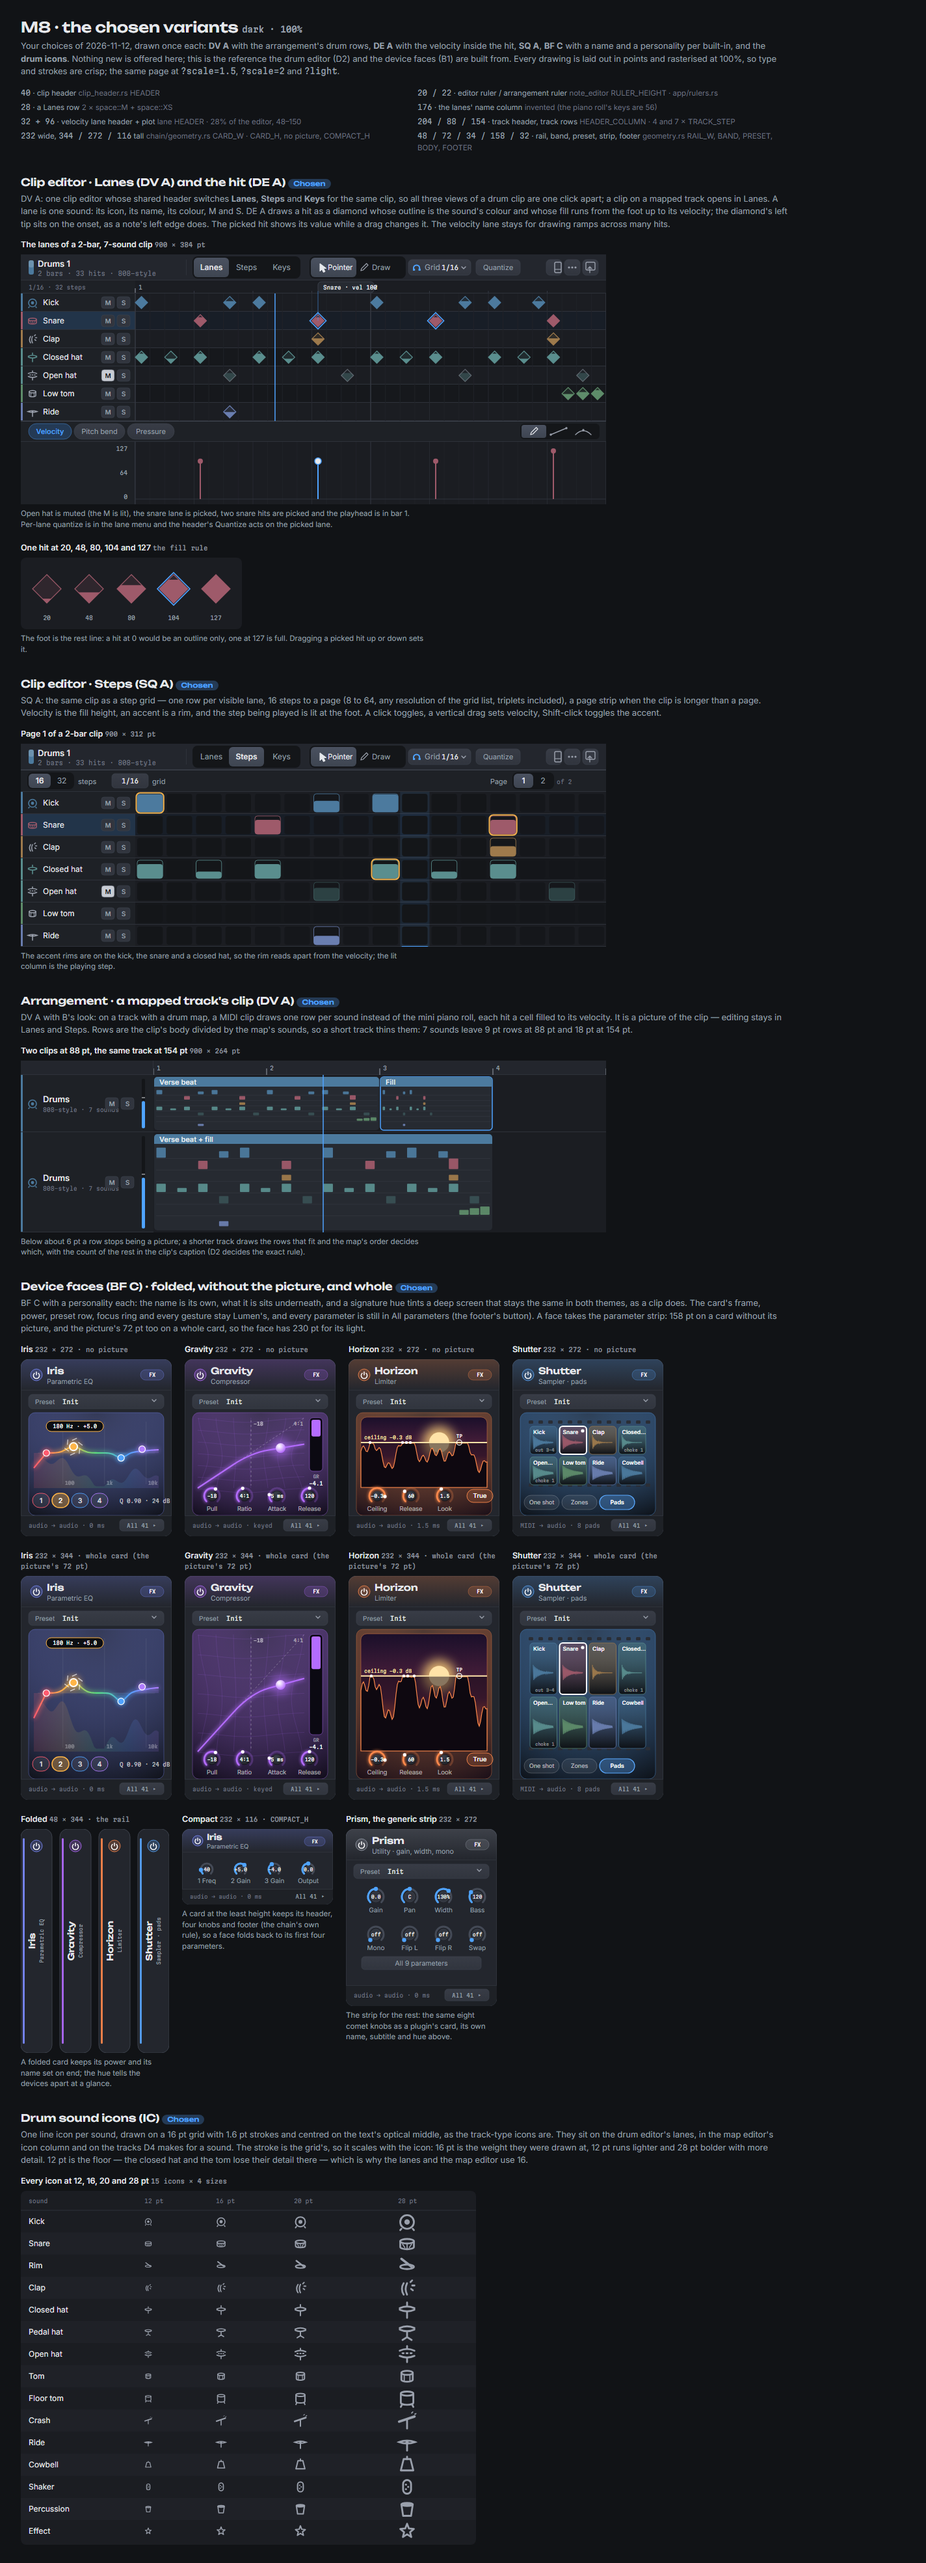
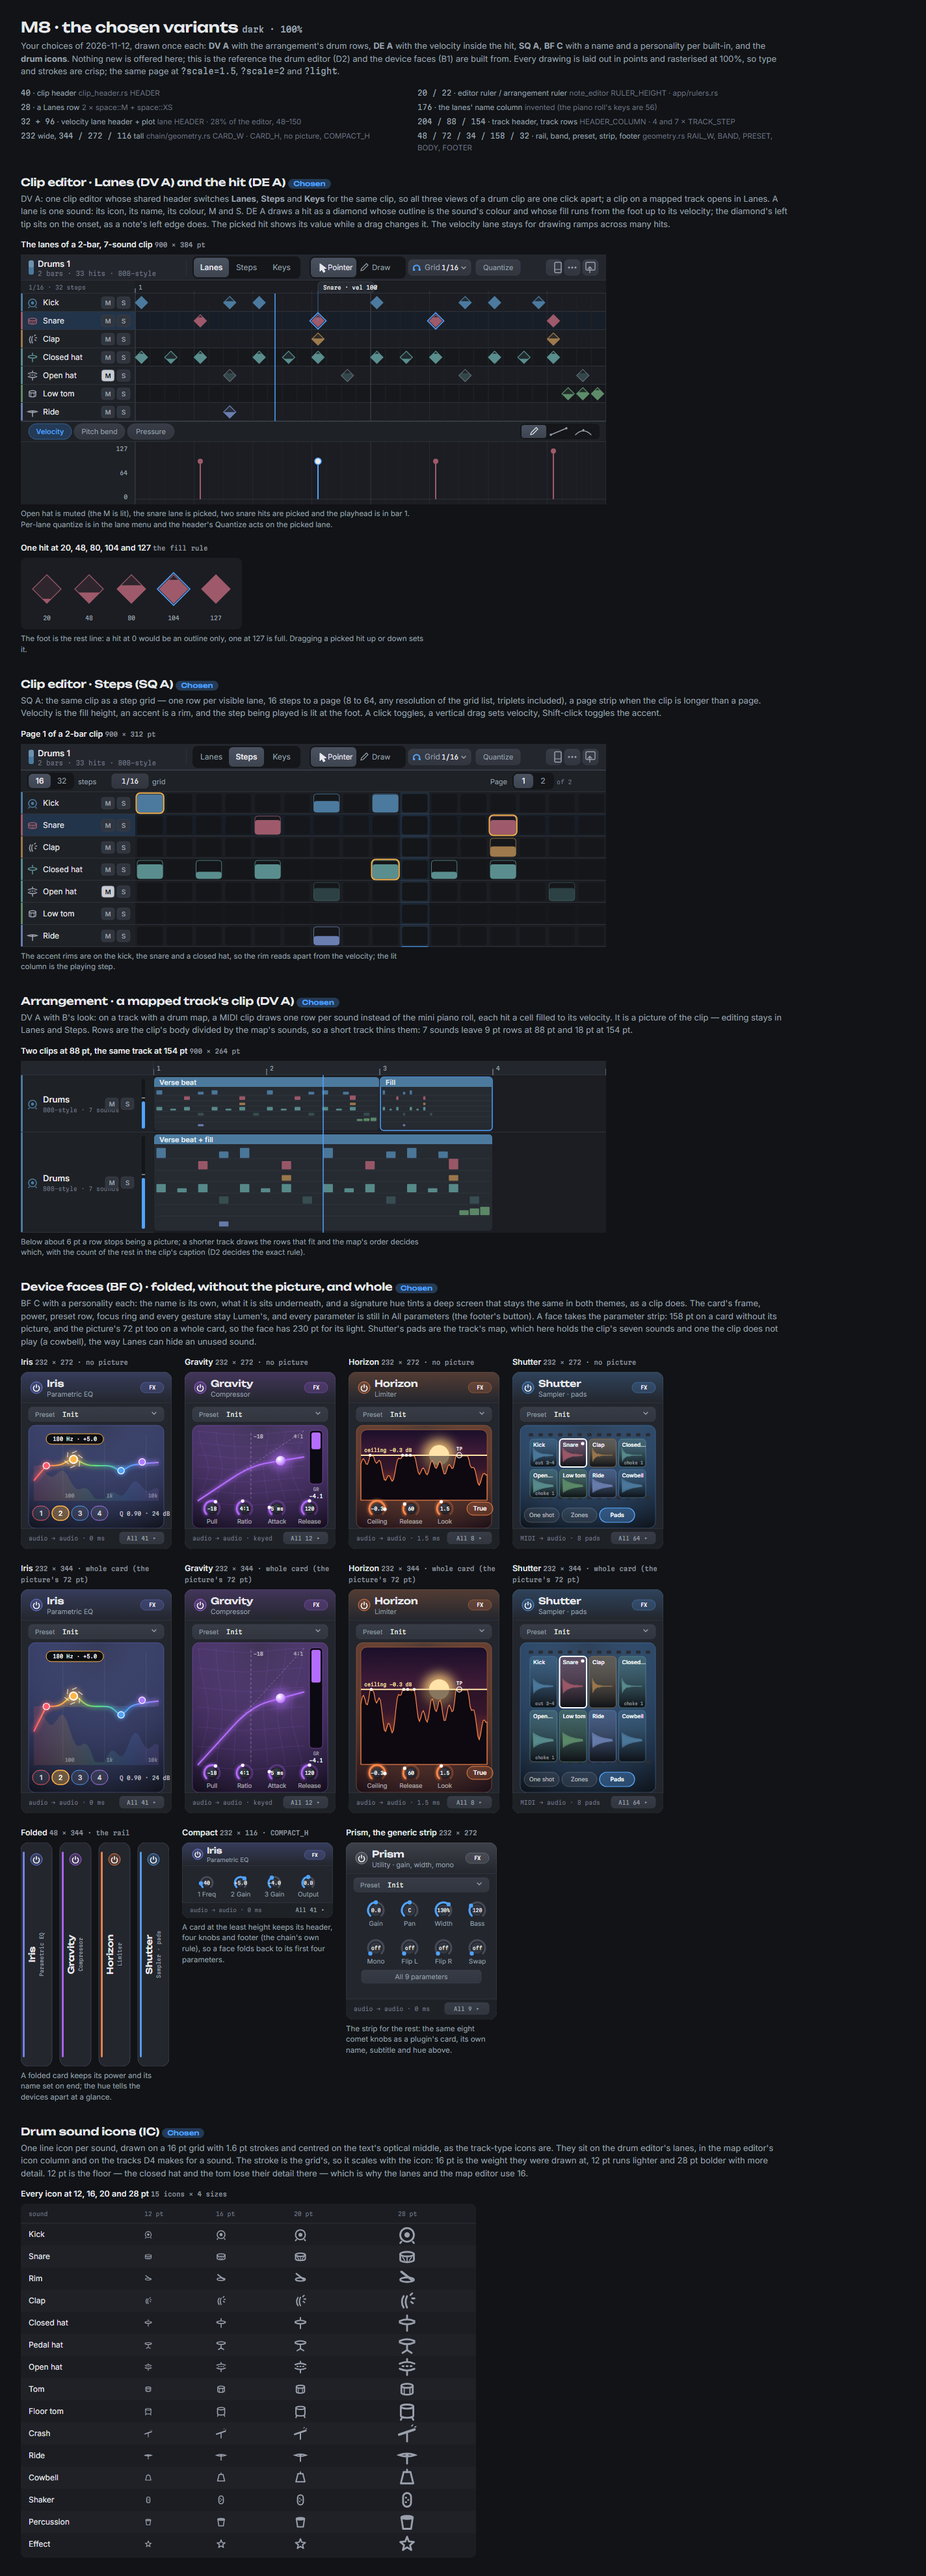
M8 specimens P: each face's own parameter count, and Shutter's pads read from the map

diff --git a/docs/specimens/m8/chosen.html b/docs/specimens/m8/chosen.html
@@ -484,7 +484,7 @@ function dial(cx, cy, r, v, hue, name, val) {
   return s;
 }
 // the card: picture (a face), header, preset row, footer — the chain's chrome
-function card(w, h, {name, sub, hue, badge = 'FX'}, face, footer) {
+function card(w, h, {name, sub, hue, badge = 'FX', all = 41}, face, footer) {
   const [gi, gd] = lg([[0, hexA(hue, .22)], [1, hexA(hue, 0)]]);
   let s = gd + rect(0, 0, w, h, C.raised, {rx:12, stroke:C.border_strong, 'stroke-width':1});
   s += `<path d="M0 12 a12 12 0 0 1 12 -12 h${w - 24} a12 12 0 0 1 12 12 v36 h-${w} z" fill="url(#${gi})"/>`;
@@ -505,7 +505,7 @@ function card(w, h, {name, sub, hue, badge = 'FX'}, face, footer) {
   s += `<path d="M0 ${h - C_FOOTER} H${w} V${h - 12} A12 12 0 0 1 ${w - 12} ${h} H12 A12 12 0 0 1 0 ${h - 12} Z" fill="${C.header}"/>`;
   s += line(0, h - C_FOOTER + .5, w, h - C_FOOTER + .5, C.border, 1);
   s += mono(12, h - 13, footer, C.hint, 9);
-  s += raised(w - 80, h - 26, 68, 18, 5) + mono(w - 46, h - 13, 'All 41 ▸', C.text2, 8.5, {'text-anchor':'middle'});
+  s += raised(w - 80, h - 26, 68, 18, 5) + mono(w - 46, h - 13, `All ${all} ▸`, C.text2, 8.5, {'text-anchor':'middle'});
   return s;
 }
 // 1 · Iris — the parametric EQ: the curve is the control, the analyzer behind it
@@ -744,10 +744,10 @@ function compactCard(name, sub, hue, ks, footer) {
 
 // ---------- the page ----------
 const DEV = [
-  {name:'Iris', sub:'Parametric EQ', hue:'#7C8CFF', face:faceIris, footer:'audio → audio · 0 ms'},
-  {name:'Gravity', sub:'Compressor', hue:'#B46CFF', face:faceGravity, footer:'audio → audio · keyed'},
-  {name:'Horizon', sub:'Limiter', hue:'#FF8A4C', face:faceHorizon, footer:'audio → audio · 1.5 ms'},
-  {name:'Shutter', sub:'Sampler · pads', hue:'#5AA9FF', face:faceShutter, footer:'MIDI → audio · 8 pads'},
+  {name:'Iris', sub:'Parametric EQ', hue:'#7C8CFF', face:faceIris, all:41, footer:'audio → audio · 0 ms'},
+  {name:'Gravity', sub:'Compressor', hue:'#B46CFF', face:faceGravity, all:12, footer:'audio → audio · keyed'},
+  {name:'Horizon', sub:'Limiter', hue:'#FF8A4C', face:faceHorizon, all:8, footer:'audio → audio · 1.5 ms'},
+  {name:'Shutter', sub:'Sampler · pads', hue:'#5AA9FF', face:faceShutter, all:64, footer:'MIDI → audio · 8 pads'},
 ];
 const chosen = `<span class="rec" style="background:${C.accent_muted};color:${C.accent}">Chosen</span>`;
 const sub = s => `<span class="sub">${s}</span>`;
@@ -789,7 +789,7 @@ H += `<h2>Arrangement · a mapped track's clip (DV A) ${chosen}</h2>
 
 // 4 · the device faces
 H += `<h2>Device faces (BF C) · folded, without the picture, and whole ${chosen}</h2>
-<p class="q" style="color:${C.text2}">BF C with a personality each: the name is its own, what it is sits underneath, and a signature hue tints a deep screen that stays the same in both themes, as a clip does. The card's frame, power, preset row, focus ring and every gesture stay Lumen's, and every parameter is still in All parameters (the footer's button). A face takes the parameter strip: 158 pt on a card without its picture, and the picture's 72 pt too on a whole card, so the face has 230 pt for its light.</p>
+<p class="q" style="color:${C.text2}">BF C with a personality each: the name is its own, what it is sits underneath, and a signature hue tints a deep screen that stays the same in both themes, as a clip does. The card's frame, power, preset row, focus ring and every gesture stay Lumen's, and every parameter is still in All parameters (the footer's button). A face takes the parameter strip: 158 pt on a card without its picture, and the picture's 72 pt too on a whole card, so the face has 230 pt for its light. Shutter's pads are the track's map, which here holds the clip's seven sounds and one the clip does not play (a cowbell), the way Lanes can hide an unused sound.</p>
 <div class="row">`;
 DEV.forEach(d => { H += frame(`${d.name} ${sub(`232 × 272 · no picture`)}`, svg(CARD_W, CARD_NORMAL, card(CARD_W, CARD_NORMAL, d, d.face, d.footer)), '', 'card'); });
 H += `</div><div class="row" style="margin-top:calc(22px*var(--s))">`;
@@ -805,7 +805,7 @@ H += frame(`Compact ${sub('232 × 116 · COMPACT_H')}`,
     'audio → audio · 0 ms')),
   'A card at the least height keeps its header, four knobs and footer (the chain\'s own rule), so a face folds back to its first four parameters.', 'card');
 H += frame(`Prism, the generic strip ${sub('232 × 272')}`,
-  svg(CARD_W, CARD_NORMAL, card(CARD_W, CARD_NORMAL, {name:'Prism', sub:'Utility · gain, width, mono', hue:'#9AA0AC'},
+  svg(CARD_W, CARD_NORMAL, card(CARD_W, CARD_NORMAL, {name:'Prism', sub:'Utility · gain, width, mono', hue:'#9AA0AC', all:9},
     (w, h) => prismFace(w, h), 'audio → audio · 0 ms')),
   'The strip for the rest: the same eight comet knobs as a plugin\'s card, its own name, subtitle and hue above.', 'card');
 H += `</div>`;
